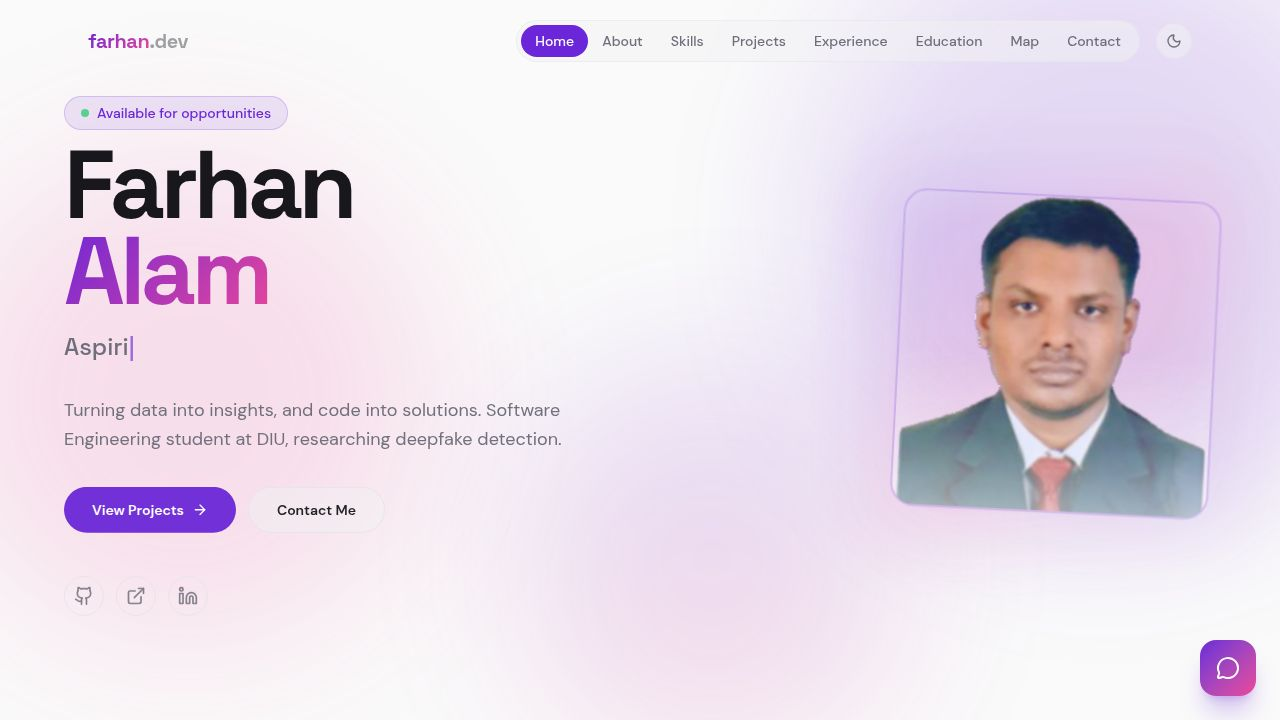
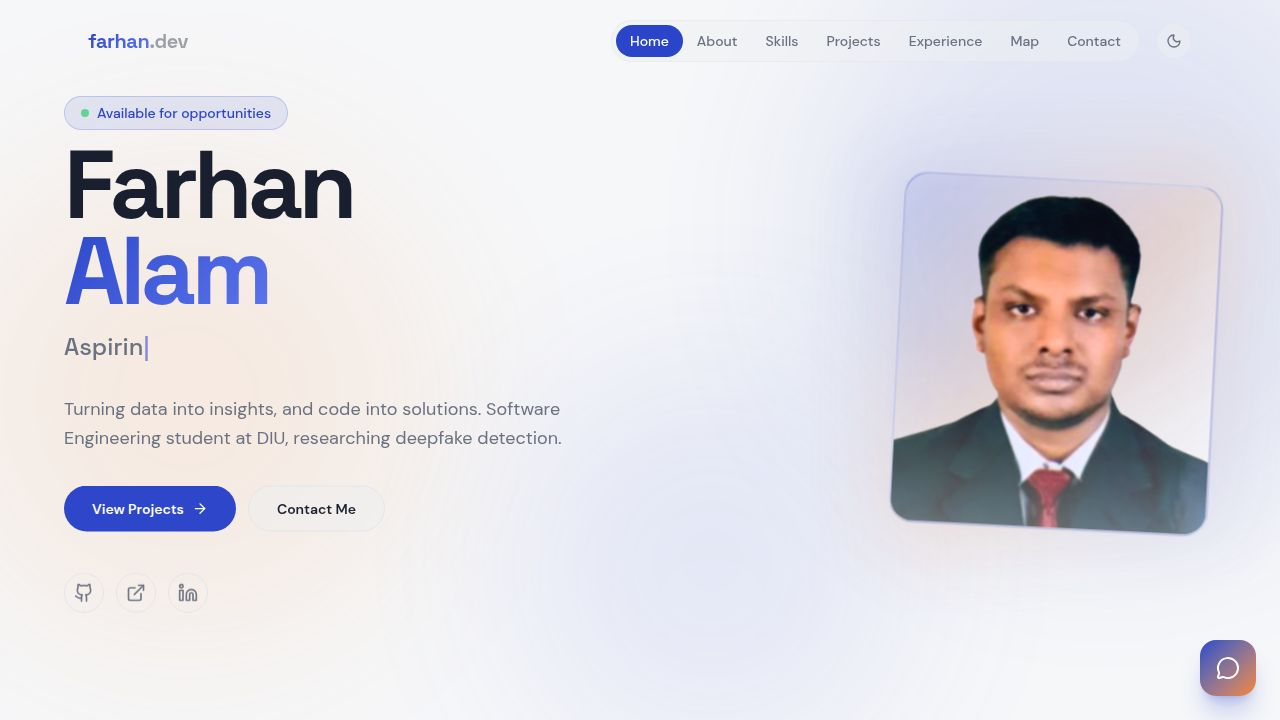
Update portfolio with new contact options and improved layout
Removes unused contact form, replaces it with clickable email, WhatsApp, and map links, and updates navigation and profile display.

Replit-Commit-Author: Agent
Replit-Commit-Session-Id: b83559a5-559d-4773-b229-b9528cb0539f
Replit-Commit-Checkpoint-Type: full_checkpoint
Replit-Commit-Event-Id: fe14e364-70cf-47f9-8fd1-6eb5cd4e7df3
Replit-Commit-Screenshot-Url: https://storage.googleapis.com/screenshot-production-us-central1/485766c3-dd60-4c76-801d-f1345ef4da6f/b83559a5-559d-4773-b229-b9528cb0539f/jlEtX7p
Replit-Helium-Checkpoint-Created: true

diff --git a/artifacts/portfolio/src/pages/Home.tsx b/artifacts/portfolio/src/pages/Home.tsx
@@ -1,11 +1,7 @@
 import { motion } from "framer-motion";
-import { ArrowRight, Github, Linkedin, Mail, MapPin, Phone, ExternalLink, Calendar, Code, Database, Briefcase, Send, Loader2, Sparkles, GraduationCap, FlaskConical, Users, ChevronDown } from "lucide-react";
+import { ArrowRight, Github, Linkedin, Mail, MapPin, Phone, ExternalLink, Code, Database, Briefcase, Sparkles, GraduationCap, FlaskConical, Users, ChevronDown } from "lucide-react";
 import { useTypingEffect } from "@/hooks/use-typing-effect";
 import { SectionHeader } from "@/components/SectionHeader";
-import { useForm } from "react-hook-form";
-import { zodResolver } from "@hookform/resolvers/zod";
-import { z } from "zod";
-import { useToast } from "@/hooks/use-toast";
 import { useEffect, useState } from "react";
 import { MapContainer, TileLayer, Marker, Popup } from 'react-leaflet';
 import 'leaflet/dist/leaflet.css';
@@ -21,15 +17,6 @@ const defaultIcon = L.icon({
   shadowSize: [41, 41],
 });
 L.Marker.prototype.options.icon = defaultIcon;
-
-const contactFormSchema = z.object({
-  name: z.string().min(2, "Name is required"),
-  email: z.string().email("Valid email is required"),
-  subject: z.string().min(5, "Subject is required"),
-  message: z.string().min(10, "Message must be at least 10 characters"),
-});
-
-type ContactFormValues = z.infer<typeof contactFormSchema>;
 
 const fadeUp = {
   hidden: { opacity: 0, y: 30 },
@@ -115,21 +102,6 @@ export default function Home() {
     "Data Science Researcher"
   ];
   const typedTitle = useTypingEffect(titles, 80, 40, 2000);
-  const { toast } = useToast();
-
-  const { register, handleSubmit, formState: { errors, isSubmitting }, reset } = useForm<ContactFormValues>({
-    resolver: zodResolver(contactFormSchema)
-  });
-
-  const onSubmit = async (_data: ContactFormValues) => {
-    await new Promise(resolve => setTimeout(resolve, 1000));
-    toast({
-      title: "Message sent successfully!",
-      description: "Thanks for reaching out, I'll get back to you soon.",
-      variant: "default",
-    });
-    reset();
-  };
 
   const scrollTo = (id: string) => {
     const el = document.getElementById(id);
@@ -266,18 +238,10 @@ export default function Home() {
                   className="w-full aspect-square object-cover rounded-xl"
                 />
               </div>
-              <div className="grid grid-cols-3 gap-3 mt-4">
-                <div className="neo-card p-3 text-center rounded-xl">
-                  <p className="text-2xl font-display font-bold text-gradient-primary">3.06</p>
-                  <p className="text-xs text-muted-foreground mt-1">CGPA</p>
-                </div>
+              <div className="grid grid-cols-1 gap-3 mt-4">
                 <div className="neo-card p-3 text-center rounded-xl">
                   <p className="text-2xl font-display font-bold text-gradient-primary">4+</p>
                   <p className="text-xs text-muted-foreground mt-1">Projects</p>
-                </div>
-                <div className="neo-card p-3 text-center rounded-xl">
-                  <p className="text-2xl font-display font-bold text-gradient-primary">2+</p>
-                  <p className="text-xs text-muted-foreground mt-1">Clubs</p>
                 </div>
               </div>
             </motion.div>
@@ -539,8 +503,8 @@ export default function Home() {
             <div className="h-[420px] w-full rounded-xl overflow-hidden">
               {isMapMounted && (
                 <MapContainer
-                  center={[23.845, 90.25]}
-                  zoom={10}
+                  center={[23.85, 90.27]}
+                  zoom={11}
                   scrollWheelZoom={false}
                   style={{ height: '100%', width: '100%', borderRadius: '0.75rem' }}
                 >
@@ -548,16 +512,16 @@ export default function Home() {
                     attribution='&copy; <a href="https://www.openstreetmap.org/copyright">OpenStreetMap</a> contributors'
                     url="https://{s}.tile.openstreetmap.org/{z}/{x}/{y}.png"
                   />
-                  <Marker position={[23.7508, 90.3743]}>
+                  <Marker position={[23.7591, 90.3928]}>
                     <Popup>
                       <div className="font-semibold text-sm">Home</div>
-                      <div className="text-xs text-muted-foreground">Tejgaon, Dhaka</div>
+                      <div className="text-xs text-muted-foreground">171/1 Tejkunipara, Tejgaon, Dhaka</div>
                     </Popup>
                   </Marker>
-                  <Marker position={[23.9399, 90.1373]}>
+                  <Marker position={[23.8763, 90.3200]}>
                     <Popup>
                       <div className="font-semibold text-sm">Daffodil International University</div>
-                      <div className="text-xs text-muted-foreground">Ashulia Campus</div>
+                      <div className="text-xs text-muted-foreground">Main Campus</div>
                     </Popup>
                   </Marker>
                 </MapContainer>
@@ -571,123 +535,72 @@ export default function Home() {
 
       {/* ═══════════ CONTACT ═══════════ */}
       <section id="contact" className="py-28 px-4 sm:px-6 relative z-10">
-        <div className="max-w-6xl mx-auto">
-          <SectionHeader title="Get In Touch" subtitle="Have a question or want to work together?" label="Contact" />
+        <div className="max-w-3xl mx-auto">
+          <SectionHeader title="Contact Me" subtitle="Let's connect and collaborate" label="Contact" />
 
-          <div className="grid lg:grid-cols-[1fr_1.5fr] gap-8 lg:gap-12">
-            <motion.div
-              initial={{ opacity: 0, y: 30 }}
-              whileInView={{ opacity: 1, y: 0 }}
-              viewport={{ once: true }}
-              transition={{ duration: 0.7, ease: [0.22, 1, 0.36, 1] }}
+          <div className="grid sm:grid-cols-2 gap-4">
+            <a
+              href="mailto:f05076963@gmail.com"
+              className="neo-card p-5 rounded-xl flex items-start gap-4 group hover:border-primary/30 transition-all duration-300"
             >
-              <h3 className="text-2xl font-display font-bold mb-8">Contact Information</h3>
-
-              <div className="space-y-4">
-                {[
-                  { icon: <Mail className="w-5 h-5" />, label: "Email", lines: ["f05076963@gmail.com", "alam22205341122@diu.edu.bd"] },
-                  { icon: <Phone className="w-5 h-5" />, label: "Phone", lines: ["+880 1610 772313"] },
-                  { icon: <MapPin className="w-5 h-5" />, label: "Location", lines: ["171/1, Tejkunipara, Tejgaon", "Dhaka-1215, Bangladesh"] },
-                ].map((info) => (
-                  <div key={info.label} className="neo-card p-4 rounded-xl flex items-start gap-4 group">
-                    <div className="w-11 h-11 rounded-xl bg-primary/10 text-primary flex items-center justify-center shrink-0 group-hover:bg-primary group-hover:text-primary-foreground transition-all duration-300">
-                      {info.icon}
-                    </div>
-                    <div>
-                      <h4 className="font-display font-semibold text-foreground text-sm mb-0.5">{info.label}</h4>
-                      {info.lines.map((line, i) => (
-                        <p key={i} className="text-sm text-muted-foreground">{line}</p>
-                      ))}
-                    </div>
-                  </div>
-                ))}
+              <div className="w-11 h-11 rounded-xl bg-primary/10 text-primary flex items-center justify-center shrink-0 group-hover:bg-primary group-hover:text-primary-foreground transition-all duration-300">
+                <Mail className="w-5 h-5" />
               </div>
-
-              <div className="mt-8">
-                <h4 className="font-display font-semibold text-sm text-foreground mb-3 uppercase tracking-wider">Connect</h4>
-                <div className="flex gap-3">
-                  <a href="https://github.com/farhan22025" target="_blank" rel="noreferrer" className="w-10 h-10 flex items-center justify-center rounded-xl border border-border text-muted-foreground hover:text-primary hover:border-primary/50 hover:bg-primary/5 transition-all duration-300">
-                    <Github className="w-5 h-5" />
-                  </a>
-                  <a href="https://farhan22025.github.io" target="_blank" rel="noreferrer" className="w-10 h-10 flex items-center justify-center rounded-xl border border-border text-muted-foreground hover:text-primary hover:border-primary/50 hover:bg-primary/5 transition-all duration-300">
-                    <ExternalLink className="w-5 h-5" />
-                  </a>
-                  <a href="#" className="w-10 h-10 flex items-center justify-center rounded-xl border border-border text-muted-foreground hover:text-primary hover:border-primary/50 hover:bg-primary/5 transition-all duration-300">
-                    <Linkedin className="w-5 h-5" />
-                  </a>
-                </div>
+              <div>
+                <h4 className="font-display font-semibold text-foreground text-sm mb-0.5">Email</h4>
+                <p className="text-sm text-muted-foreground">f05076963@gmail.com</p>
+                <p className="text-sm text-muted-foreground">alam22205341122@diu.edu.bd</p>
               </div>
-            </motion.div>
+            </a>
 
-            <motion.div
-              initial={{ opacity: 0, y: 30 }}
-              whileInView={{ opacity: 1, y: 0 }}
-              viewport={{ once: true }}
-              transition={{ duration: 0.7, delay: 0.15, ease: [0.22, 1, 0.36, 1] }}
-              className="neo-card p-6 md:p-8 rounded-2xl"
+            <a
+              href="https://api.whatsapp.com/send/?phone=8801610772313&text=Hi+Farhan%2C+I+visited+your+portfolio+and+wanted+to+connect.&type=phone_number&app_absent=0"
+              target="_blank"
+              rel="noreferrer"
+              className="neo-card p-5 rounded-xl flex items-start gap-4 group hover:border-green-500/30 transition-all duration-300"
             >
-              <h3 className="text-2xl font-display font-bold mb-6">Send a message</h3>
+              <div className="w-11 h-11 rounded-xl bg-green-500/10 text-green-600 flex items-center justify-center shrink-0 group-hover:bg-green-500 group-hover:text-white transition-all duration-300">
+                <Phone className="w-5 h-5" />
+              </div>
+              <div>
+                <h4 className="font-display font-semibold text-foreground text-sm mb-0.5">WhatsApp</h4>
+                <p className="text-sm text-muted-foreground">+880 1610 772313</p>
+                <p className="text-xs text-green-600 font-medium mt-1">Tap to chat on WhatsApp</p>
+              </div>
+            </a>
 
-              <form onSubmit={handleSubmit(onSubmit)} className="space-y-5">
-                <div className="grid sm:grid-cols-2 gap-5">
-                  <div className="space-y-2">
-                    <label htmlFor="name" className="text-sm font-medium text-foreground">Your Name</label>
-                    <input
-                      id="name"
-                      {...register("name")}
-                      className={`w-full bg-muted/50 border ${errors.name ? 'border-destructive focus:ring-destructive/20' : 'border-border focus:border-primary focus:ring-primary/20'} rounded-xl px-4 py-3 text-sm focus:outline-none focus:ring-4 transition-all`}
-                      placeholder="John Doe"
-                    />
-                    {errors.name && <p className="text-xs text-destructive">{errors.name.message}</p>}
-                  </div>
-                  <div className="space-y-2">
-                    <label htmlFor="email" className="text-sm font-medium text-foreground">Email Address</label>
-                    <input
-                      id="email"
-                      {...register("email")}
-                      className={`w-full bg-muted/50 border ${errors.email ? 'border-destructive focus:ring-destructive/20' : 'border-border focus:border-primary focus:ring-primary/20'} rounded-xl px-4 py-3 text-sm focus:outline-none focus:ring-4 transition-all`}
-                      placeholder="john@example.com"
-                    />
-                    {errors.email && <p className="text-xs text-destructive">{errors.email.message}</p>}
-                  </div>
-                </div>
+            <a
+              href="https://www.google.com/maps/place/Q97R%2BGMR+Dhaka"
+              target="_blank"
+              rel="noreferrer"
+              className="neo-card p-5 rounded-xl flex items-start gap-4 group hover:border-secondary/30 transition-all duration-300"
+            >
+              <div className="w-11 h-11 rounded-xl bg-secondary/10 text-secondary flex items-center justify-center shrink-0 group-hover:bg-secondary group-hover:text-secondary-foreground transition-all duration-300">
+                <MapPin className="w-5 h-5" />
+              </div>
+              <div>
+                <h4 className="font-display font-semibold text-foreground text-sm mb-0.5">Location</h4>
+                <p className="text-sm text-muted-foreground">171/1, Tejkunipara, Tejgaon</p>
+                <p className="text-sm text-muted-foreground">Dhaka-1215, Bangladesh</p>
+                <p className="text-xs text-secondary font-medium mt-1">View on Google Maps</p>
+              </div>
+            </a>
 
-                <div className="space-y-2">
-                  <label htmlFor="subject" className="text-sm font-medium text-foreground">Subject</label>
-                  <input
-                    id="subject"
-                    {...register("subject")}
-                    className={`w-full bg-muted/50 border ${errors.subject ? 'border-destructive focus:ring-destructive/20' : 'border-border focus:border-primary focus:ring-primary/20'} rounded-xl px-4 py-3 text-sm focus:outline-none focus:ring-4 transition-all`}
-                    placeholder="Project Inquiry"
-                  />
-                  {errors.subject && <p className="text-xs text-destructive">{errors.subject.message}</p>}
-                </div>
-
-                <div className="space-y-2">
-                  <label htmlFor="message" className="text-sm font-medium text-foreground">Message</label>
-                  <textarea
-                    id="message"
-                    {...register("message")}
-                    rows={5}
-                    className={`w-full bg-muted/50 border ${errors.message ? 'border-destructive focus:ring-destructive/20' : 'border-border focus:border-primary focus:ring-primary/20'} rounded-xl px-4 py-3 text-sm focus:outline-none focus:ring-4 transition-all resize-none`}
-                    placeholder="Hello Farhan, I'd like to discuss..."
-                  />
-                  {errors.message && <p className="text-xs text-destructive">{errors.message.message}</p>}
-                </div>
-
-                <button
-                  type="submit"
-                  disabled={isSubmitting}
-                  className="w-full bg-primary text-primary-foreground font-semibold py-3.5 rounded-xl hover:shadow-xl hover:shadow-primary/25 transition-all duration-300 active:scale-[0.98] flex items-center justify-center gap-2"
-                >
-                  {isSubmitting ? (
-                    <><Loader2 className="w-5 h-5 animate-spin" /> Sending...</>
-                  ) : (
-                    <><Send className="w-5 h-5" /> Send Message</>
-                  )}
-                </button>
-              </form>
-            </motion.div>
+            <a
+              href="https://github.com/farhan22025"
+              target="_blank"
+              rel="noreferrer"
+              className="neo-card p-5 rounded-xl flex items-start gap-4 group hover:border-primary/30 transition-all duration-300"
+            >
+              <div className="w-11 h-11 rounded-xl bg-primary/10 text-primary flex items-center justify-center shrink-0 group-hover:bg-primary group-hover:text-primary-foreground transition-all duration-300">
+                <Github className="w-5 h-5" />
+              </div>
+              <div>
+                <h4 className="font-display font-semibold text-foreground text-sm mb-0.5">GitHub</h4>
+                <p className="text-sm text-muted-foreground">farhan22025</p>
+                <p className="text-xs text-primary font-medium mt-1">View profile</p>
+              </div>
+            </a>
           </div>
         </div>
       </section>

diff --git a/artifacts/portfolio/src/components/Navbar.tsx b/artifacts/portfolio/src/components/Navbar.tsx
@@ -9,7 +9,6 @@ const navLinks = [
   { name: "Skills", href: "#skills" },
   { name: "Projects", href: "#projects" },
   { name: "Experience", href: "#experience" },
-  { name: "Education", href: "#education" },
   { name: "Map", href: "#map" },
   { name: "Contact", href: "#contact" },
 ];
